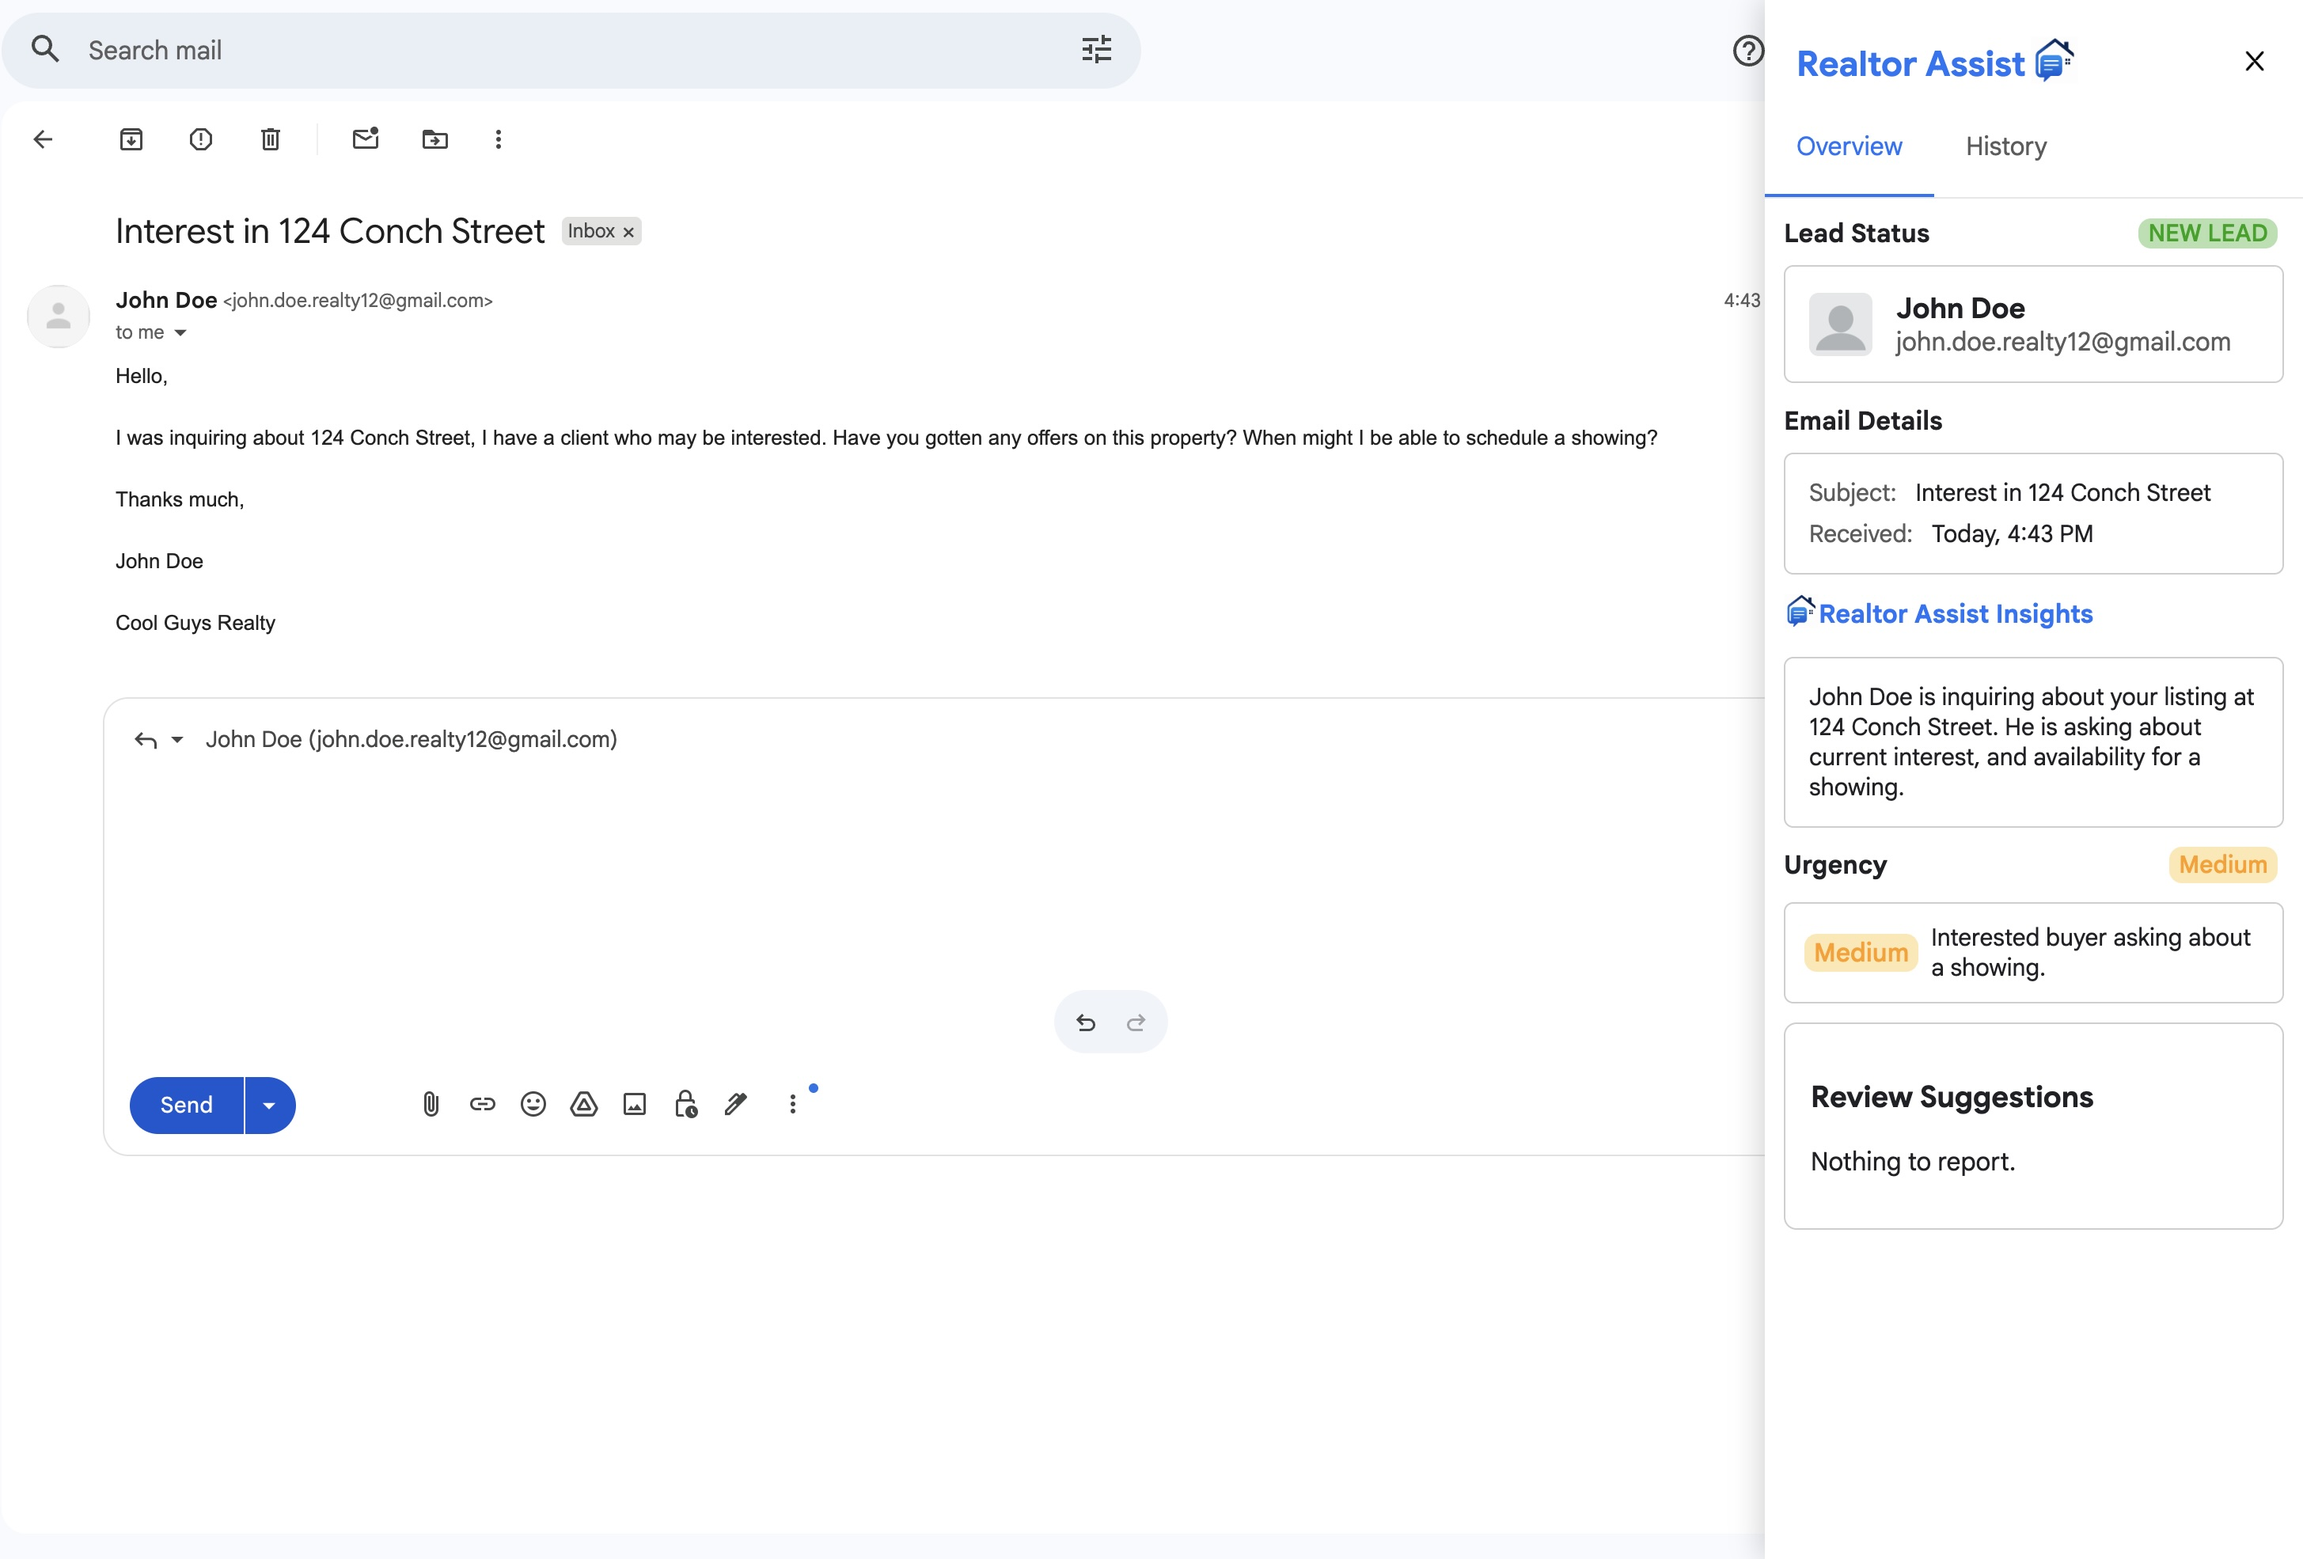
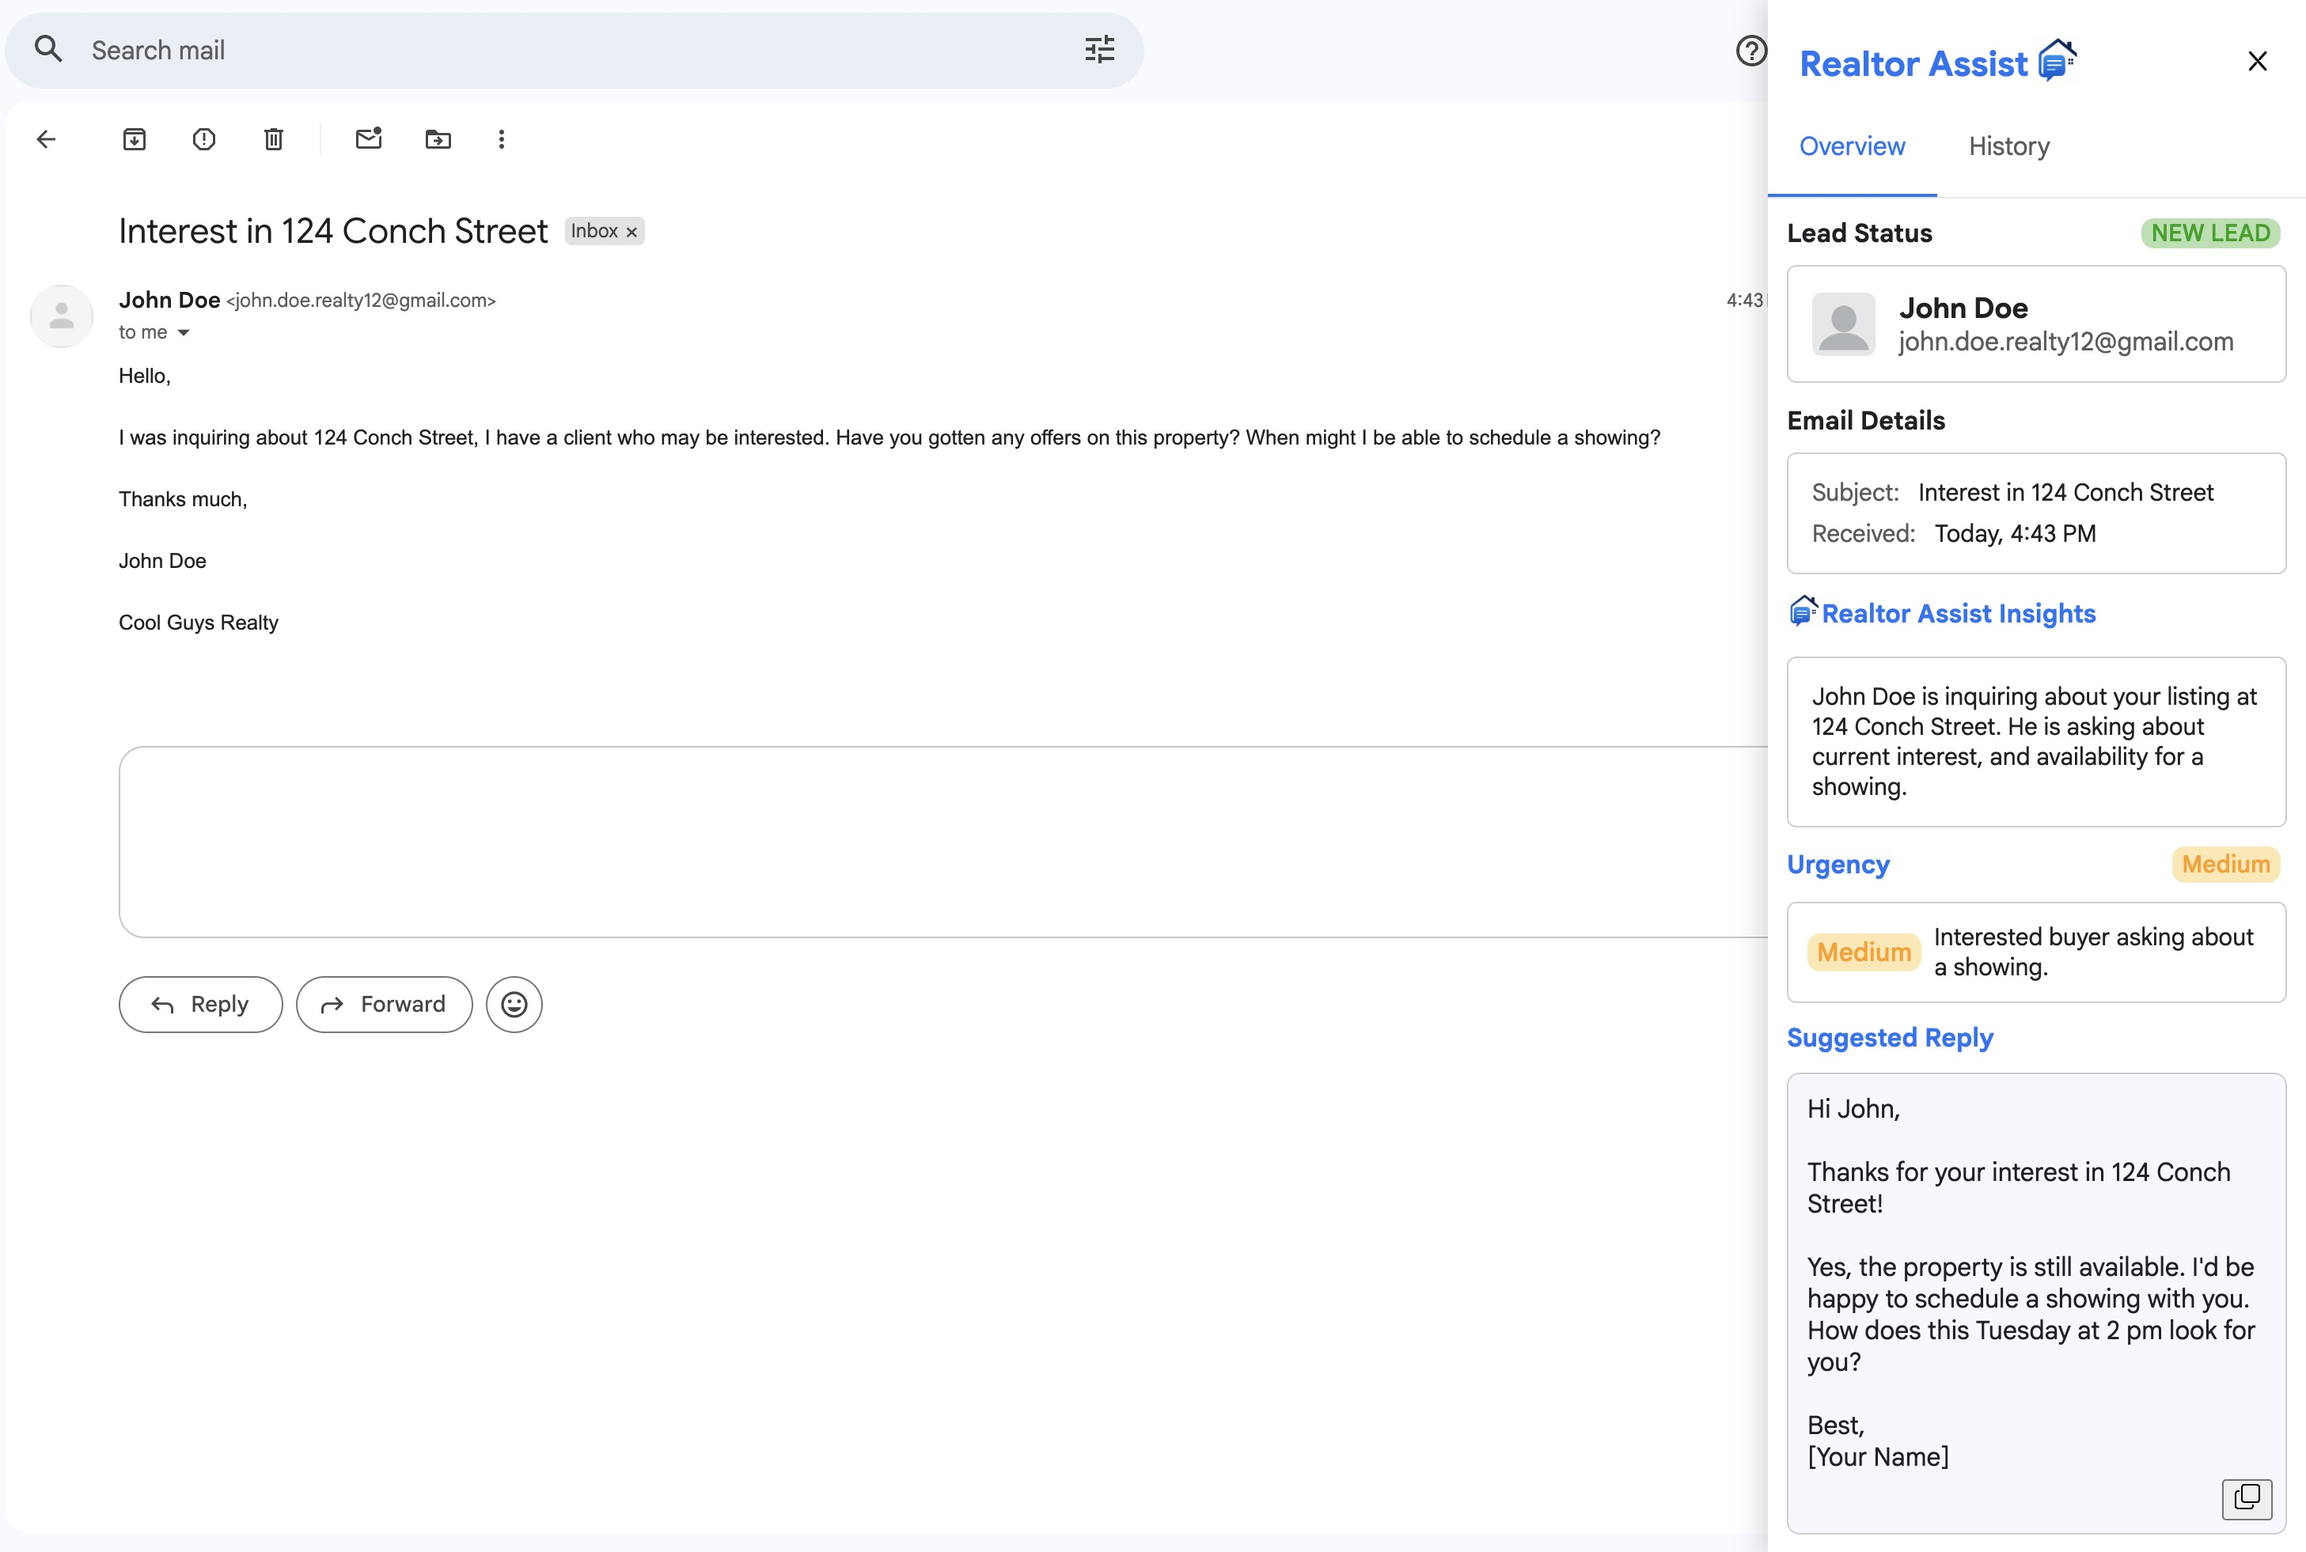
Add: suggested reply UI

diff --git a/extension/scripts/content.js b/extension/scripts/content.js
@@ -96,12 +96,11 @@ if (overview){
   insightTitle.classList.add("insight-title-container");
   insightTitle.innerHTML = `
     <img src="${chrome.runtime.getURL("images/realtorAssist-icon-32.png")}" id="insight-icon" alt="realtor assist logo">
-    <div class="insight-title" style="color: #1975f7">Realtor Assist Insights</div>
+    <div class="insight-title">Realtor Assist Insights</div>
   `;
   sidebarContainer.appendChild(insightTitle);
 // Future implementation of AI insights will require a button click for cost saving purposes.
 // if (generate){ 
-// ai summary -> urgency report -> suggested reply
 
   const insightContainer = document.createElement("div");
   insightContainer.classList.add("insight-container");
@@ -120,32 +119,35 @@ if (overview){
     
     </div>
 
+    <div class="suggested-reply-title">Suggested Reply</div>
+
+    <div class="reply-card">
+      <div class="reply-text">Hi John,
+
+Thanks for your interest in 124 Conch Street!
+      
+Yes, the property is still available. I'd be happy to schedule a showing with you. How does this Tuesday at 2 pm look for you?
+      
+Best,
+[Your Name]
+      </div>
+
+      <button class="reply-copy-btn">
+        <svg xmlns="http://www.w3.org/2000/svg" width="16" height="16" fill="currentColor" class="bi bi-copy" viewBox="0 0 16 16">
+        <path fill-rule="evenodd" d="M4 2a2 2 0 0 1 2-2h8a2 2 0 0 1 2 2v8a2 2 0 0 1-2 2H6a2 2 0 0 1-2-2zm2-1a1 1 0 0 0-1 1v8a1 1 0 0 0 1 1h8a1 1 0 0 0 1-1V2a1 1 0 0 0-1-1zM2 5a1 1 0 0 0-1 1v8a1 1 0 0 0 1 1h8a1 1 0 0 0 1-1v-1h1v1a2 2 0 0 1-2 2H2a2 2 0 0 1-2-2V6a2 2 0 0 1 2-2h1v1z"/>
+        </svg>
+      </button>
+
+  </div>
+
 
       `;
-  //     <div class="lead-title">Lead Status</div>
-  //     <div class="lead-status" id="new-lead">NEW LEAD</div>
-  //   </div>
-
-  //   <div class="lead-info-card">
-
-  //     <img class="blank-pfp" src="${chrome.runtime.getURL("images/blank-pfp.png")}" alt="blank profile picture">
-      
-
-  //     <div class="lead-info-container">
-  //       <div class="lead-name">John Doe</div>
-  //       <div class="lead-email">john.doe@gmail.com</div>
-  //     </div>
-
-  //   </div>
-  // `;
   sidebarContainer.appendChild(insightContainer);
-
-
-
-
-
-
 // }
+
+
+
+
 }
 const content = document.createElement("div");
 content.classList.add("content");

diff --git a/extension/css/styles.css b/extension/css/styles.css
@@ -122,12 +122,19 @@
   }
 
   .realtor-assist-sidebar .lead-title,
-   .realtor-assist-sidebar .email-details,
-   .realtor-assist-sidebar .insight-title,
-   .realtor-assist-sidebar .urgency-title
+  .realtor-assist-sidebar .email-details,
+  .realtor-assist-sidebar .insight-title,
+  .realtor-assist-sidebar .urgency-title,
+  .realtor-assist-sidebar .suggested-reply-title
   {
     font-size: 16px;
     font-weight: bold;
+  }
+
+  .realtor-assist-sidebar .insight-title,
+  .realtor-assist-sidebar .urgency-title,
+  .realtor-assist-sidebar .suggested-reply-title {
+    color: #1975f7;
   }
 
   .realtor-assist-sidebar .lead-status,
@@ -232,7 +239,7 @@
     display: flex;
     align-items: center;
     padding: 12px 8px 12px 12px;
-    gap: 8px
+    gap: 8px;
   }
 
   .realtor-assist-sidebar .urgency {
@@ -255,4 +262,26 @@
     font-size: 15px;
     flex: 1;
     min-width: 0;
+  }
+
+  .realtor-assist-sidebar .suggested-reply-title {
+    margin-top: 12px;
+    margin-bottom: 12px;
+  }
+  .realtor-assist-sidebar .reply-card {
+  position: relative;
+  border: 1px solid rgb(206, 206, 206);
+  border-radius: 8px;
+  padding: 12px 12px 18px 12px;
+  height: auto;
+  background-color:  #1976f70c;
+  }
+  .realtor-assist-sidebar .reply-text {
+    white-space: pre-wrap; 
+    overflow-wrap: break-word;
+  }
+  .realtor-assist-sidebar .reply-copy-btn {
+    position: absolute;
+    bottom: 8px;
+    right: 8px;
   }
